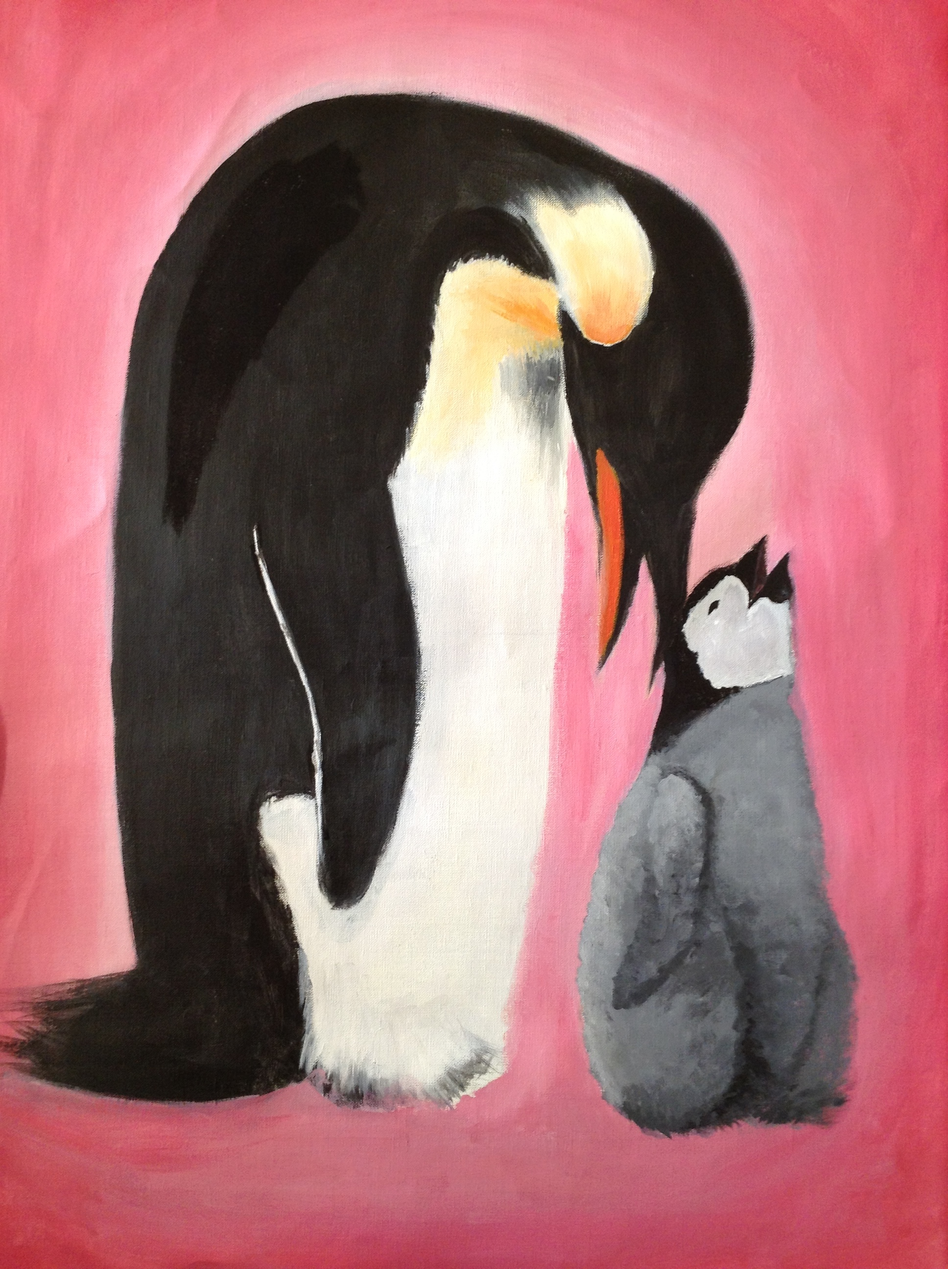
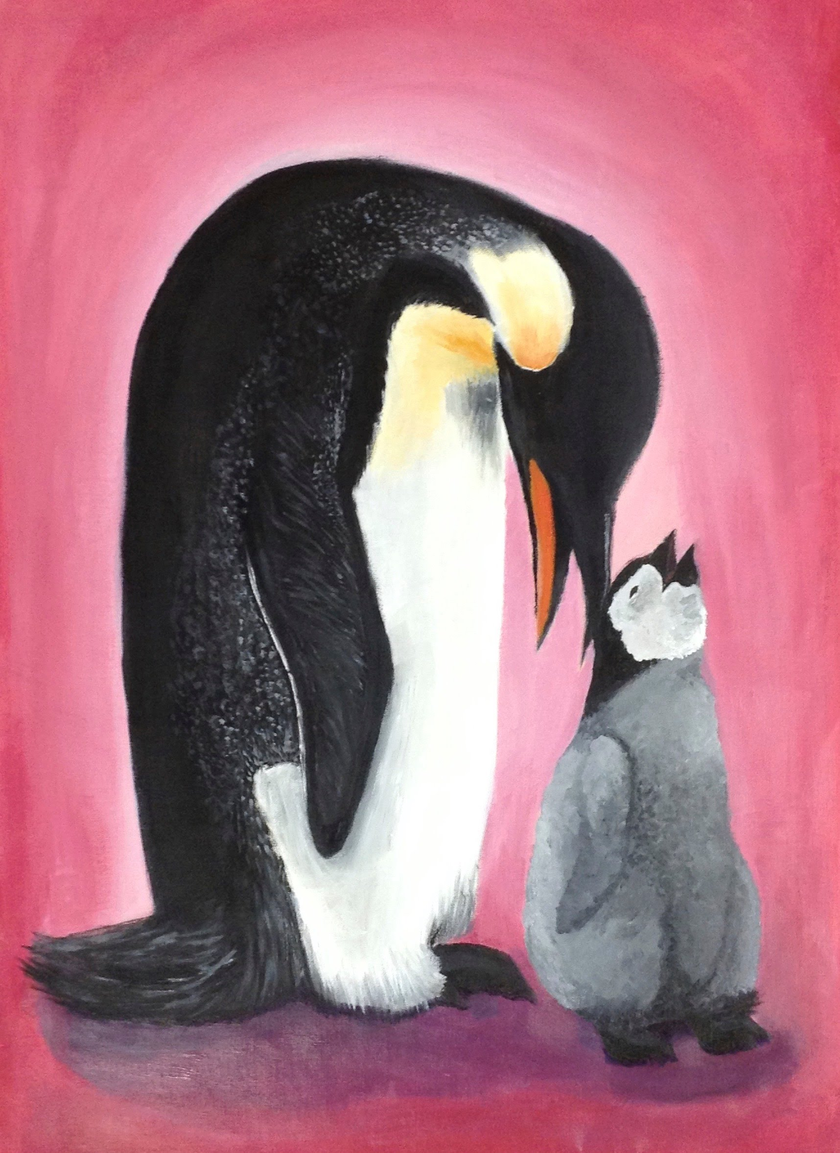
added penguin pic

diff --git a/art.html b/art.html
@@ -72,7 +72,7 @@
         <div class="row">
           <div class="col-sm-6">
             <div class="project-container art-container center-me">
-              <img src="photos/IMG_penguin.jpg" class="image art-image">
+              <img src="photos/IMG_7398.jpg" class="image art-image">
             </div>
           </div>
 
